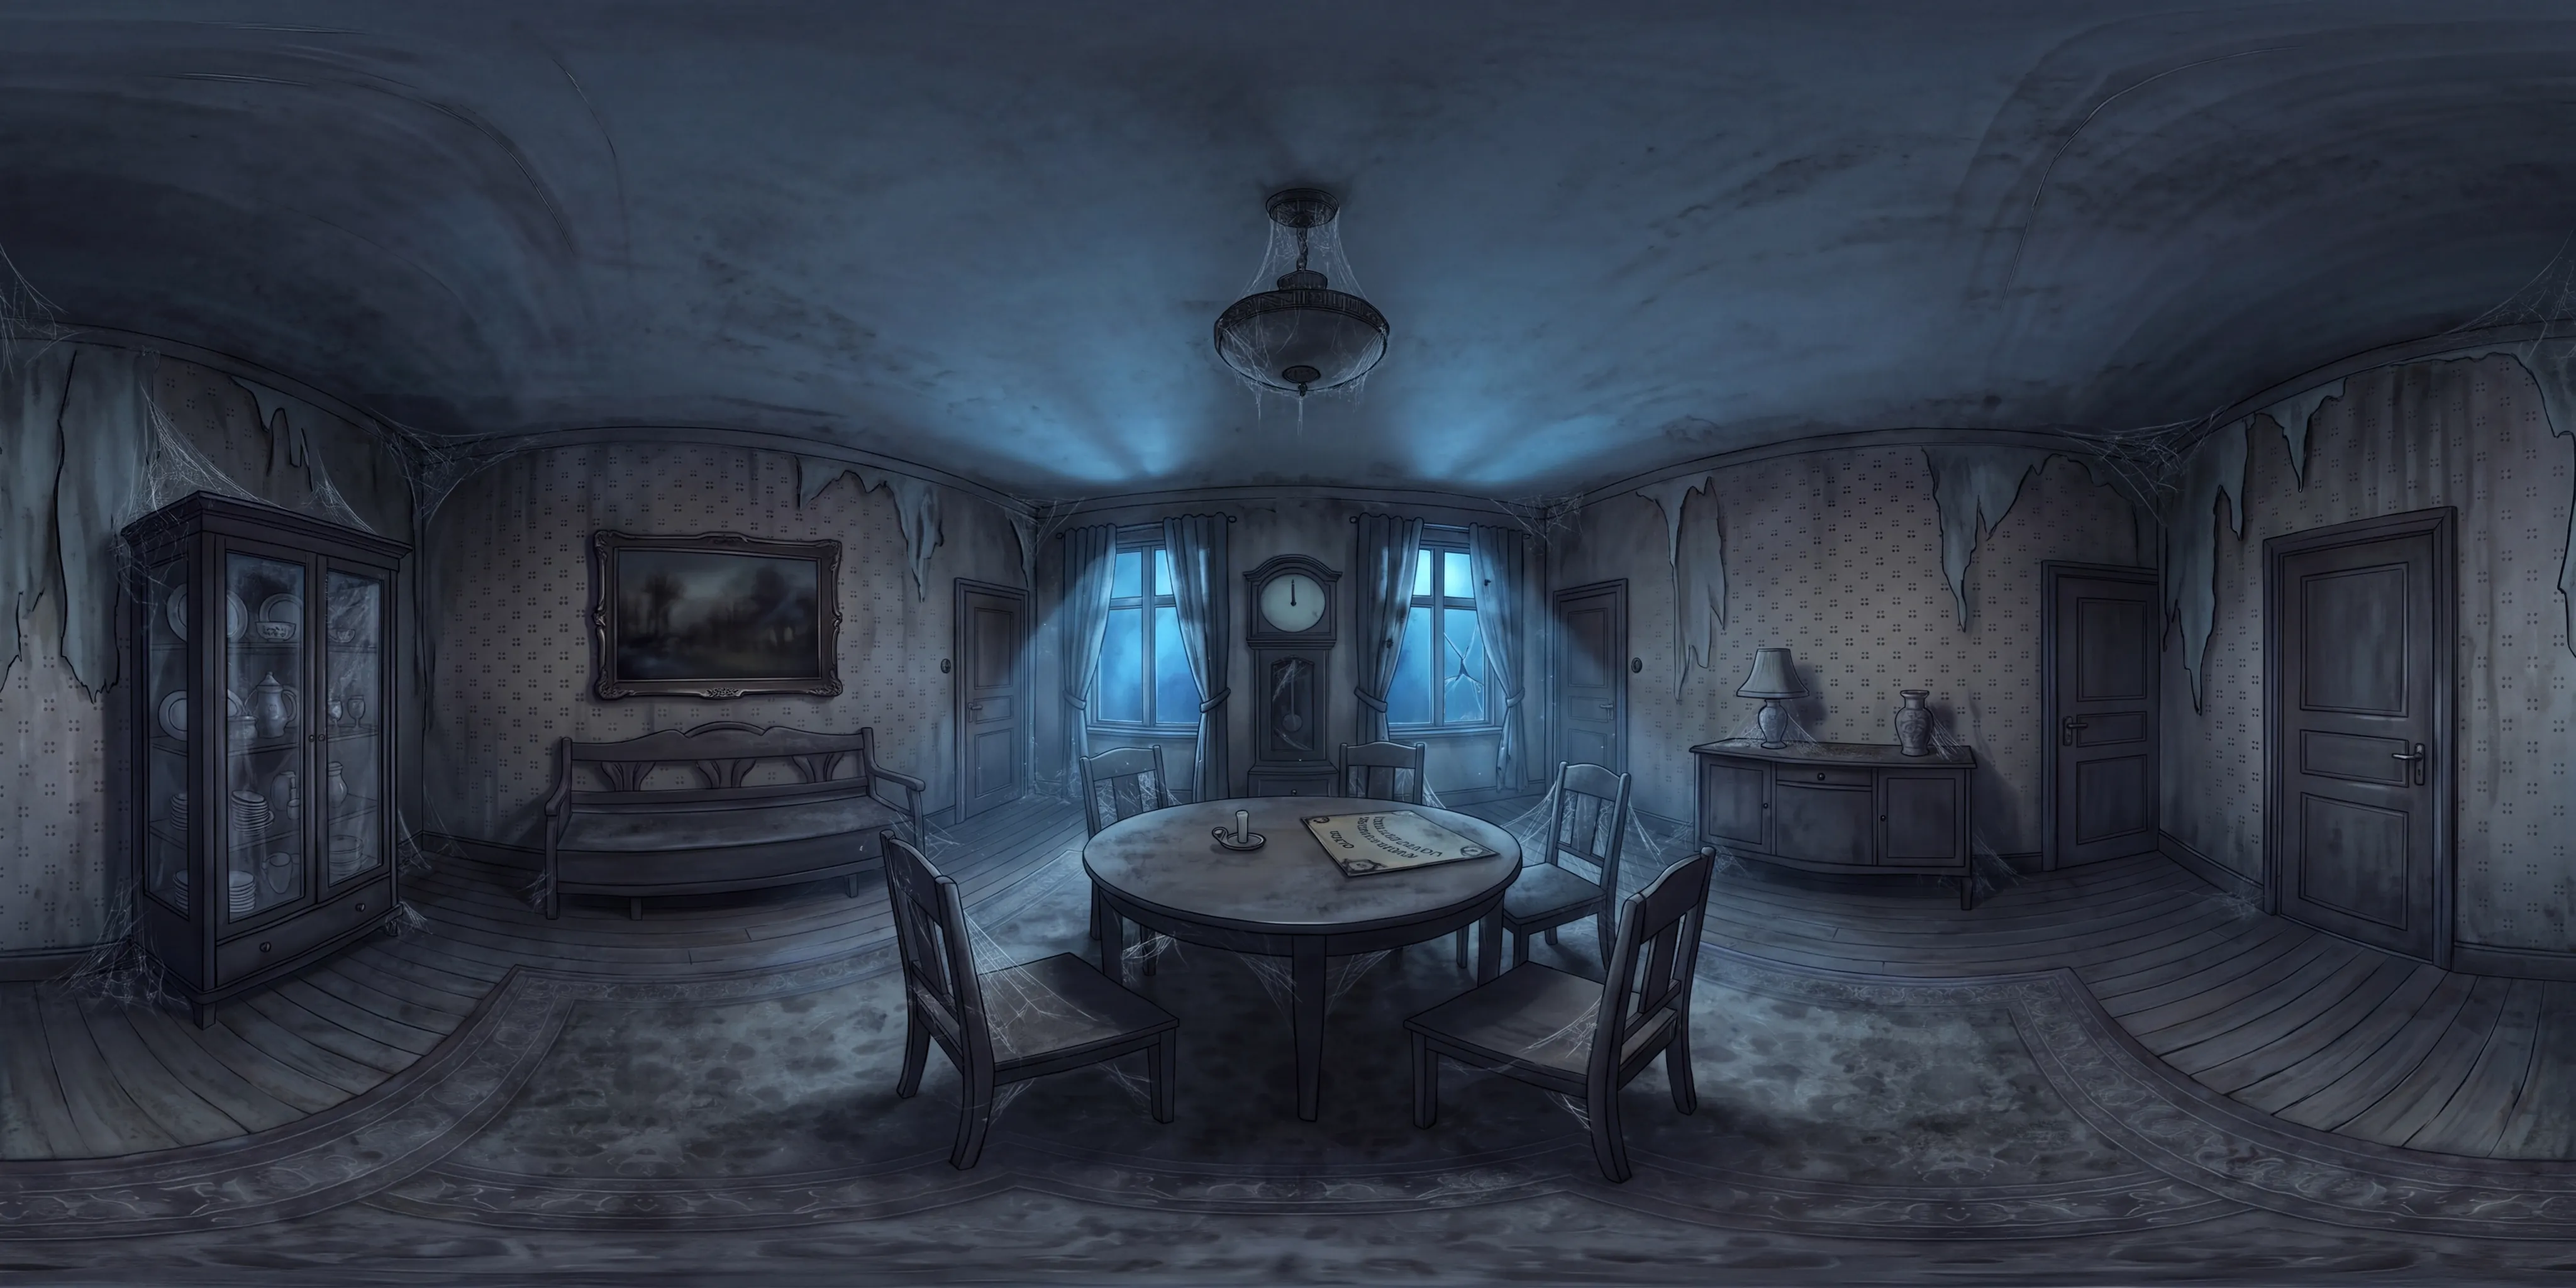
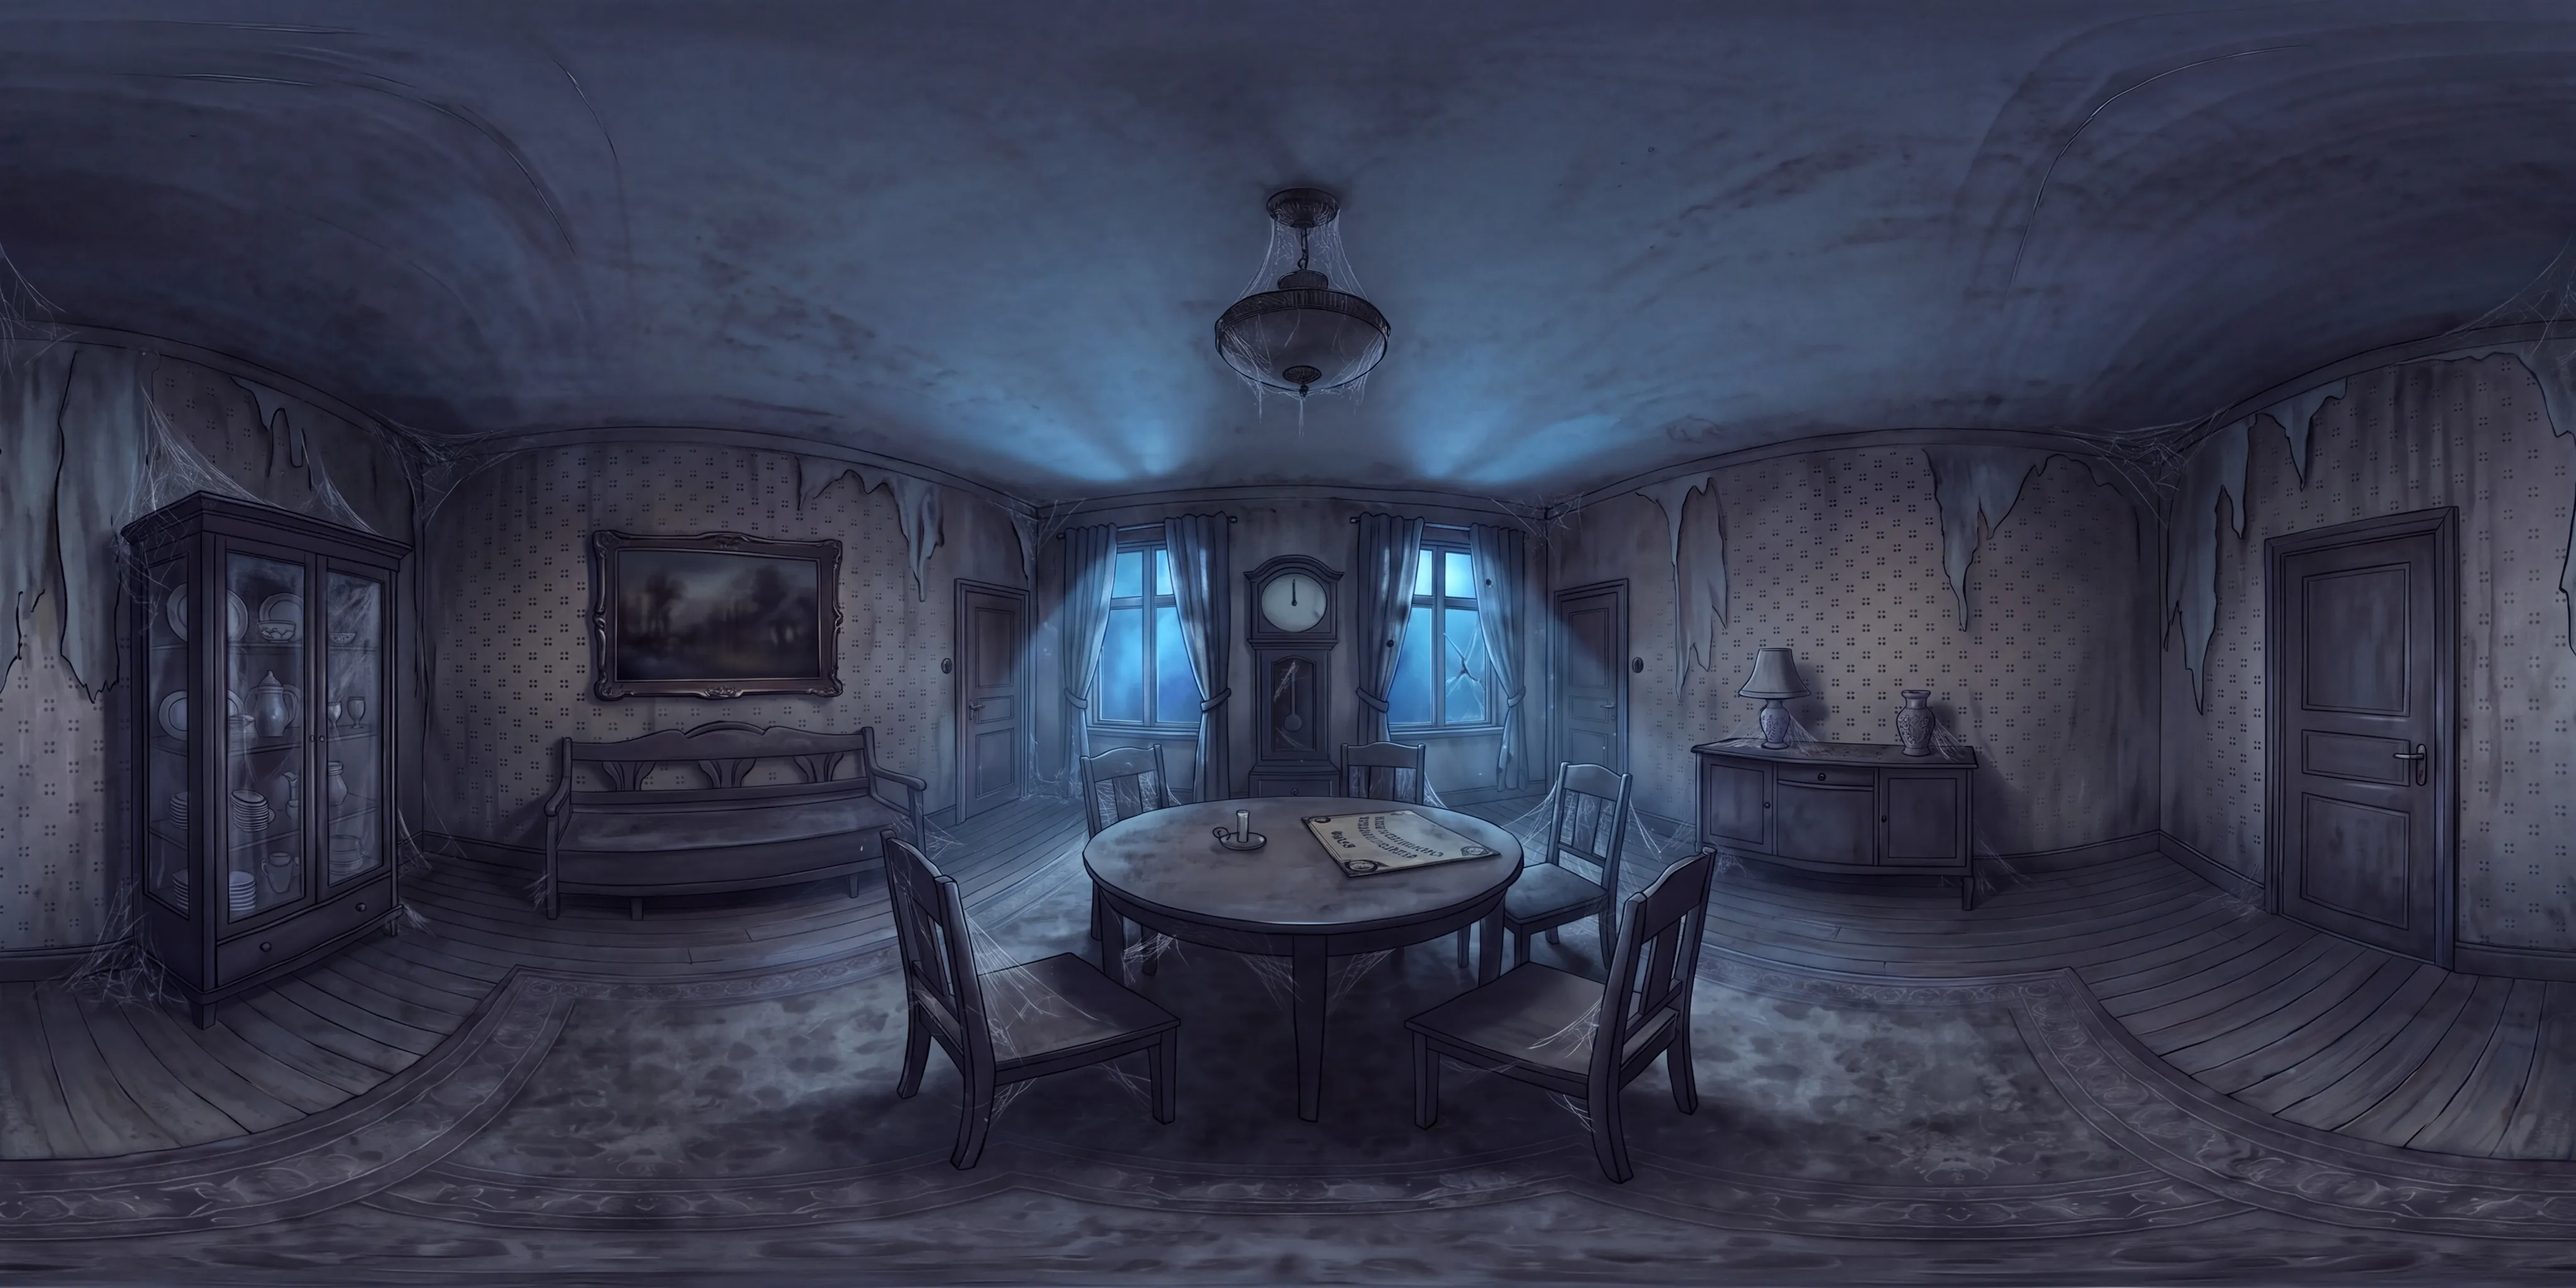
Ta fram köket och sovrummet i målad stil
Mallen ritar nu alla fyra rummen. Köket och sovrummet finns 1962 och i
dag, och testsidan visar bara bilderna från i dag. Den extra dörren i
salongen är borttagen (Jonas 2026-11-20).

Claude-Session: https://claude.ai/code/session_01X82C4CqheV7jTaXH9cVkV3

diff --git a/src/testsida/roundImageCard.ts b/src/testsida/roundImageCard.ts
@@ -18,6 +18,8 @@ const ROUND_IMAGES = [
   { name: 'Hallen, tusch, första versionen (Gemini)', file: 'rundbilder/hallen-tusch.webp' },
   { name: 'Hallen, målad (Gemini)', file: 'rundbilder/hallen-malad.webp' },
   { name: 'Salongen, målad (Gemini)', file: 'rundbilder/salongen-malad.webp' },
+  { name: 'Köket, målad (Gemini)', file: 'rundbilder/koket-malad.webp' },
+  { name: 'Sovrummet, målad (Gemini)', file: 'rundbilder/sovrummet-malad.webp' },
   { name: 'Hallen, foto (Gemini)', file: 'rundbilder/hallen-foto.webp' },
   { name: 'Rutnät, 8 rutor per sida', file: 'rundbilder/provbild-rutnat.webp' },
   { name: 'Rutnät, 16 rutor per sida', file: 'rundbilder/provbild-rutnat-stor.webp' },

diff --git a/src/config.ts b/src/config.ts
@@ -6,4 +6,4 @@ export const SUPABASE_PUBLIC_KEY = 'sb_publishable_aa--NTfRkU6vqDZUqgXMPw_o2LBJh
 
 // Visas på sidan och i felsökningsloggen, så att det syns om mobilen kör en
 // gammal sida ur cachen. Höjs vid varje ändring av webbsidan.
-export const VERSION = '2026-11-20.86';
+export const VERSION = '2026-11-20.87';

diff --git a/tools/rundbildsmall.py b/tools/rundbildsmall.py
@@ -6,7 +6,7 @@ färgfält läste Gemini väggarnas bågar som extra hörn. Med skuggningen blev
 fyra hörn (2026-11-20). Gråskalan visar bara form och läge, inte färg.
 Bilden ritas direkt i 16:9, samma format som Gemini svarar i.
 
-Körs med: python3 tools/rundbildsmall.py ut.png [rum], där rum är hallen eller salongen.
+Körs med: python3 tools/rundbildsmall.py ut.png [rum], där rum är hallen, salongen, koket eller sovrummet.
 CX och CZ i miljön flyttar betraktaren i meter från mitten, till exempel
 CZ=-1.3 för en bit in från ytterdörren. Rummet nedan är hallen.
 """
@@ -85,7 +85,32 @@ def salongen():
     rect('right',0.6,-1.2,0,0.95,0.5,Z)    # skänk
     rect('front',0.5,1.4,0,2.1,0.6,X)      # dörr till hallen
     rect('front',-2.0,-0.8,0,2.0,0.45,X)   # vitrinskåp
-ROOMS = {'hallen': hallen, 'salongen': salongen}
+def koket():
+    rug(0, 0, 1.0)
+    rect('back',-2.3,-1.4,0,2.1,0.6,X)     # dörr till salongen
+    rect('back',0.0,1.6,0,0.9,0.5,X)       # diskbänk med diskho
+    rect('back',0.2,1.4,1.1,2.2,1.15,X)    # fönster
+    rect('right',0.6,1.7,0,0.9,0.35,Z)     # spis
+    rect('right',-1.8,0.4,0,0.9,0.5,Z)     # arbetsbänk
+    rect('right',-1.6,0.2,1.4,2.1,0.6,Z)   # väggskåp
+    rect('left',-0.45,0.45,0,2.1,0.6,Z)    # dörr till hallen
+    rect('left',1.0,1.8,1.3,2.0,0.75,Z)    # tavla
+    rect('front',-2.3,-1.4,0,2.2,0.55,X)   # skafferi
+    rect('front',-1.0,0.4,0,0.8,0.5,X)     # köksbord vid väggen
+    rect('front',1.3,1.9,1.4,2.0,0.4,X)    # proppskåp
+def sovrummet():
+    rug(0, 0, 1.25)
+    rect('back',-0.7,0.7,0.9,2.3,1.15,X)   # fönster
+    rect('back',1.4,2.3,0,2.1,0.6,X)       # dörr till salongen
+    rect('left',-0.6,1.0,0,1.0,0.5,Z)      # säng, huvudgavel mot väggen
+    floorbox(-2.5,-0.9,-0.6,1.0,90)
+    rect('left',1.2,1.7,0,0.6,0.5,Z)       # nattduksbord
+    rect('right',0.2,1.4,0,1.0,0.45,Z)     # byrå
+    rect('right',0.3,1.3,1.3,2.0,0.75,Z)   # tavla över byrån
+    rect('right',-2.3,-1.4,0,2.1,0.6,Z)    # dörr till hallen
+    rect('front',-2.3,0.8,0,2.4,0.5,X)     # bokhyllor från biblioteket
+    rect('front',1.2,2.0,0,1.0,0.55,X)     # fåtölj
+ROOMS = {'hallen': hallen, 'salongen': salongen, 'koket': koket, 'sovrummet': sovrummet}
 ROOMS[sys.argv[2] if len(sys.argv) > 2 else 'hallen']()
 # hörn, golvlist och taklist
 wall = idx<4

diff --git a/docs/koncept.md b/docs/koncept.md
@@ -267,6 +267,8 @@ Huset är en rektangel med en våning och källare. Övervåningen är borttagen
 - **Hallen.** Dörren till salongen sitter längst till höger i hallens bortre vägg, med pianot till vänster om den. Dörren till köket sitter strax till höger om salongsdörren. Dörren till sovrummet sitter långt ner på vänstra väggen. I högra hörnet vid ytterväggen ligger källartrappan, bakom den låsta källardörren (Jonas 2026-11-18). Väggen vid källardörren går hela vägen från köket ner till ytterväggen, och dörren sitter längst ner i den (Jonas 2026-11-20). Trappan fyller utrymmet mellan väggen, köket och ytterväggen och är en vinkeltrappa: den börjar längst ner vid källardörren, går längs ytterväggen och svänger i hörnet (Jonas 2026-11-20). Trappan upp till övervåningen är borttagen (Jonas 2026-11-20). Mellan köksdörren och källardörren står en hallsoffa i mörkt trä med hög rygg. Den har ingen funktion i spelet (Jonas 2026-11-20). Ovanför soffan hänger två tavlor, och mitt i rummet ligger en kvadratisk matta, ungefär tre gånger tre meter, med betraktaren mitt på (Jonas 2026-11-20). I dag är gästernas rockar och skor borta. Vid ytterdörren hänger bara en sliten gammal rock och ett paraply (Jonas 2026-11-20). Ytterdörren är en pardörr. Dörrarna till salongen, köket och sovrummet är vanliga dörrar, och källardörren är en vanlig dörr med hänglås (Jonas 2026-11-20).
 - **Salongen i mitten.** Alla rum nås från hallen. Salongen har dessutom en dörr till sovrummet och en till köket (Jonas 2026-11-20). Dörren till sovrummet sitter i salongens vänstra vägg och dörren till köket i den högra, båda längst bort från hallen (Jonas 2026-11-20).
 - **Salongen i rundbilden.** Bortre väggen har två fönster med golvuret mellan dem. Vänstra väggen har dörren till sovrummet längst bort, en soffa och en tavla. Högra väggen har dörren till köket längst bort och en skänk. Väggen mot hallen har dörren till hallen till höger och ett vitrinskåp till vänster. Det runda bordet med ouijabrädet står mitt i rummet på en kvadratisk matta, med fem stolar runt, så betraktaren står en meter från mitten mot hallen. I dag står golvuret på tolv (Jonas 2026-11-20).
+- **Köket i rundbilden.** Bortre väggen har dörren till salongen till vänster och diskbänken under fönstret. Högra väggen har arbetsbänken med skåp och spisen längst bort. Vänstra väggen har dörren till hallen i mitten och tavlan med kvinnan i röd sjal. Väggen bakom betraktaren har skafferiet, köksbordet och proppskåpet. En trasmatta ligger mitt i rummet (Jonas 2026-11-20).
+- **Sovrummet i rundbilden.** Bortre väggen har fönstret med stearinljuset och dörren till salongen till höger. Vänstra väggen har sängen och nattduksbordet. Högra väggen har byrån med en tavla över och dörren till hallen nära hörnet bakom betraktaren. Väggen bakom betraktaren är full av bokhyllor från biblioteket, med en fåtölj (Jonas 2026-11-20).
 - **Dörrarna i rundbilderna.** I rundbilderna är alla rum kvadratiska, så att varje vägg blir en fjärdedel av varvet (Jonas 2026-11-18). Dörrarna ska sitta på rätt ställe i rummen enligt planlösningen, och i beskrivningen till Gemini anges varje dörr med vägg och läge, till exempel vänstra väggen nära hörnet mot ytterväggen (Jonas 2026-11-18). Gemini följer inte alltid beskrivningen exakt, så de tryckbara dörrarna placeras där de hamnade i bilden, och en bild med en dörr på fel vägg tas fram på nytt. Betraktaren står alltid mitt i rummet (Jonas 2026-11-20). Gemini får därför en ritad mall av rummet i rätt projektion, `tools/rundbildsmall.py`, och målar rummet på den. Mallen är en skuggad grå låda, och Gemini ritar hela rundbilden själv, inte vägg för vägg (Jonas 2026-11-20). Mitt i rummet valdes framför en bit in från ytterdörren, eftersom varje vägg då har en fast plats i bilden och samma mall fungerar för alla rum (Jonas 2026-11-20). Står en möbel mitt i rummet, som bordet med ouijabrädet i salongen, flyttas betraktaren en halvmeter åt sidan. Rundbilderna görs som modern tecknad målning: penseldrag över tydliga tuschlinjer, djupa skuggor och dämpade färger. Fotona är pausade men ligger kvar på testsidan (Jonas 2026-11-20). Bilden från 1962 tas fram först, när allt är helt och rent, och bilden från i dag är en redigering av den, så att inga skavanker syns i minnet (Jonas 2026-11-20).
 
 ### Nu och 1962

diff --git a/docs/rundbilder-prov.md b/docs/rundbilder-prov.md
@@ -311,3 +311,16 @@ argument och `CZ=-1.0`, eftersom bordet med ouijabrädet står mitt i rummet.
 - **Tiden blev kvart över tio** (Jonas 2026-11-20). Ägaren läste golvuret i
   salongen 1962 som kvart över tio, så tiden i spelet flyttades en timme i
   stället för att göra om bilden.
+
+## Köket och sovrummet
+
+Ägaren bad om de två sista rummen utom källaren (Jonas 2026-11-20). Mallen
+har funktionerna `koket` och `sovrummet`, med betraktaren mitt i rummet.
+
+- **1962** gjordes från mallen med den målade hallen från 1962 som förebild
+  för stilen, ett försök per rum. Båda följde mallen. I köket hamnade
+  proppskåpet på högra väggen vid spisen i stället för på väggen bakom.
+- **I dag** är redigeringar av 1962-bilderna. I köket blev en rostrand i
+  diskhon blodröd och togs bort med en redigering till.
+- **Salongen.** En extra dörr på högra väggen, nära hörnet mot hallen, togs
+  bort i båda bilderna.
